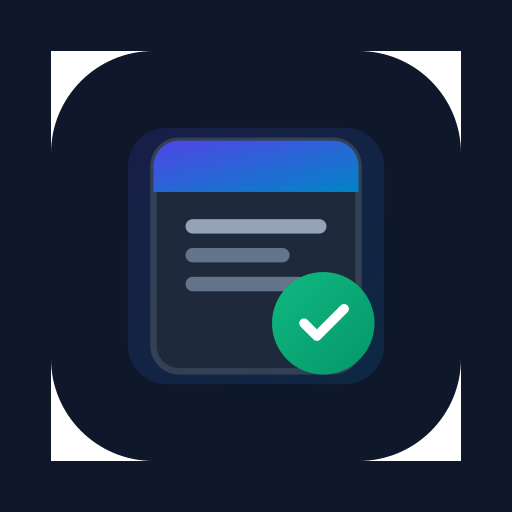
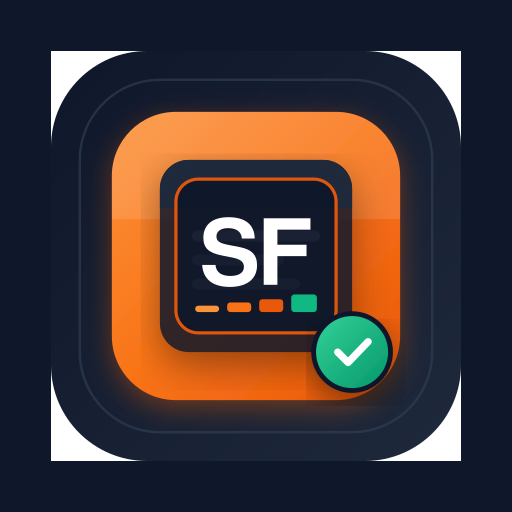
feat: refresh brand identity and optimize data sync
- Redesign app icon with a vibrant brand aesthetic
- Add empty default settings and switch to demo data
- Optimize Firestore cloud data check with parallel lookups

diff --git a/src/services/data/FirestoreSyncService.ts b/src/services/data/FirestoreSyncService.ts
@@ -32,6 +32,8 @@ import {
   writeBatch,
   runTransaction,
   increment,
+  query,
+  limit,
 } from 'firebase/firestore';
 import { db, auth } from '../firebase';
 import {
@@ -226,16 +228,18 @@ export class FirestoreSyncService {
    */
   public async hasCloudData(userId: string): Promise<boolean> {
     try {
-      // 1. Check dedicated onboarding doc
+      // 1. Parallel check of onboarding and company settings (fast single doc lookups)
       const onboardingRef = doc(db, 'users', userId, 'settings', 'onboarding');
-      const onboardingSnap = await getDoc(onboardingRef);
+      const settingsRef = doc(db, 'users', userId, 'settings', 'company');
+
+      const [onboardingSnap, settingsSnap] = await Promise.all([
+        getDoc(onboardingRef),
+        getDoc(settingsRef),
+      ]);
+
       if (onboardingSnap.exists() && onboardingSnap.data()?.hasCompletedOnboarding) {
         return true;
       }
-
-      // 2. Check company settings doc
-      const settingsRef = doc(db, 'users', userId, 'settings', 'company');
-      const settingsSnap = await getDoc(settingsRef);
       if (settingsSnap.exists()) {
         const data = settingsSnap.data();
         if (data?.hasCompletedOnboarding || data?.name || data?.currency) {
@@ -243,32 +247,21 @@ export class FirestoreSyncService {
         }
       }
 
-      // 3. Products
-      const productsRef = collection(db, 'users', userId, 'products');
-      const productsSnap = await getDocs(productsRef);
-      if (!productsSnap.empty) return true;
+      // 2. Parallel quick check for existence in primary collections
+      const collectionsToCheck = ['products', 'clients', 'invoices', 'quotes', 'movements'];
+      const checks = collectionsToCheck.map(async (colName) => {
+        try {
+          const colRef = collection(db, 'users', userId, colName);
+          const q = query(colRef, limit(1));
+          const snap = await getDocs(q);
+          return !snap.empty;
+        } catch {
+          return false;
+        }
+      });
 
-      // 4. Clients
-      const clientsRef = collection(db, 'users', userId, 'clients');
-      const clientsSnap = await getDocs(clientsRef);
-      if (!clientsSnap.empty) return true;
-
-      // 5. Invoices
-      const invoicesRef = collection(db, 'users', userId, 'invoices');
-      const invoicesSnap = await getDocs(invoicesRef);
-      if (!invoicesSnap.empty) return true;
-
-      // 6. Quotes
-      const quotesRef = collection(db, 'users', userId, 'quotes');
-      const quotesSnap = await getDocs(quotesRef);
-      if (!quotesSnap.empty) return true;
-
-      // 7. Movements
-      const movementsRef = collection(db, 'users', userId, 'movements');
-      const movementsSnap = await getDocs(movementsRef);
-      if (!movementsSnap.empty) return true;
-
-      return false;
+      const results = await Promise.all(checks);
+      return results.some(Boolean);
     } catch (err) {
       console.warn('[FirestoreSync] Error checking cloud data:', err);
       return false;
@@ -914,6 +907,8 @@ export class FirestoreSyncService {
   // --- Auto-upload helpers for unmigrated local collections ---
   private async syncLocalClientsIfCloudEmpty(userId: string, clients: Client[]) {
     if (!clients || clients.length === 0) return;
+    // Guard: Never auto-sync demo clients to user cloud storage
+    if (clients.some((c) => c.id === 'cli-1' || c.name === 'Amadou Diallo')) return;
     try {
       let batch = writeBatch(db);
       let count = 0;
@@ -940,6 +935,8 @@ export class FirestoreSyncService {
 
   private async syncLocalProductsIfCloudEmpty(userId: string, products: Product[]) {
     if (!products || products.length === 0) return;
+    // Guard: Never auto-sync demo products to user cloud storage
+    if (products.some((p) => p.id === 'prod-chg-1' || p.name === 'Chargeur Rapide 33W Type-C')) return;
     try {
       let batch = writeBatch(db);
       let count = 0;
@@ -965,6 +962,8 @@ export class FirestoreSyncService {
 
   private async syncLocalInvoicesIfCloudEmpty(userId: string, invoices: Invoice[]) {
     if (!invoices || invoices.length === 0) return;
+    // Guard: Never auto-sync demo invoices to user cloud storage
+    if (invoices.some((i) => i.id === 'inv-1001' || i.number === 'FAC-2026-1001')) return;
     try {
       let batch = writeBatch(db);
       let count = 0;

diff --git a/src/store/AppContext.tsx b/src/store/AppContext.tsx
@@ -235,21 +235,9 @@ export const AppProvider: React.FC<{ children: React.ReactNode }> = ({ children 
       try {
         const loaded = await dataRepository.loadFullState();
         if (loaded) {
-          // If categories still contain old grocery demo data, upgrade to telephony & IT accessories boutique
-          const hasOldGroceryData = loaded.categories?.some((c) =>
-            c.name.toLowerCase().includes('alimentation') || c.name.toLowerCase().includes('épicerie')
-          );
-          if (hasOldGroceryData) {
-            const demo = getDemoState();
-            await dataRepository.saveFullState(demo);
-            setState(demo);
-            return;
-          }
-
           // Strictly ensure light theme is the default experience
           if (!loaded.settings?.theme || loaded.settings.theme === 'dark') {
             loaded.settings = { ...loaded.settings, theme: 'light' };
-            await dataRepository.saveFullState(loaded);
           }
           // If PIN is enabled, lock upon startup
           const shouldLock = Boolean(loaded.settings?.pinEnabled && loaded.settings?.pinCode);
@@ -263,7 +251,7 @@ export const AppProvider: React.FC<{ children: React.ReactNode }> = ({ children 
             markUserOnboardedLocally(currentUserUid);
           }
 
-          setState({
+          const initializedState: AppState = {
             ...loaded,
             restockRequests: Array.isArray(loaded.restockRequests) ? loaded.restockRequests : [],
             returns: Array.isArray(loaded.returns) ? loaded.returns : [],
@@ -273,16 +261,19 @@ export const AppProvider: React.FC<{ children: React.ReactNode }> = ({ children 
               ...loaded.settings,
               hasCompletedOnboarding: hasOnboardingDone,
             },
-          });
+          };
+
+          stateRef.current = initializedState;
+          setState(initializedState);
         } else {
-          // Start with demo state for immediate exploration if first time
-          const demo = getDemoState();
-          await dataRepository.saveFullState(demo);
-          setState(demo);
+          // Pristine initial state — NEVER auto-inject demo data
+          stateRef.current = initialEmptyState;
+          setState(initialEmptyState);
         }
       } catch (e) {
         console.error('Initialization error:', e);
-        setState(getDemoState());
+        stateRef.current = initialEmptyState;
+        setState(initialEmptyState);
       } finally {
         setIsLoading(false);
       }
@@ -1966,12 +1957,12 @@ export const AppProvider: React.FC<{ children: React.ReactNode }> = ({ children 
       dataRepository.setUserScope(userId);
       const cached = await dataRepository.loadFullState();
 
-      // Check LocalStorage and local state first
+      // Check LocalStorage and local state first (instant, 0ms)
       const hasCompletedLocally = isUserOnboarded(userId, cached);
 
-      // Check remote cloud data in Firestore
+      // Only check cloud onboarding if not already completed locally
       let hasCompletedCloud = false;
-      if (userId) {
+      if (userId && !hasCompletedLocally) {
         hasCompletedCloud = await firestoreSyncService.hasCloudData(userId);
       }
 

diff --git a/vite.config.ts b/vite.config.ts
@@ -43,7 +43,7 @@ export default defineConfig(({ command }) => {
         ],
 
         manifest: {
-          id: isBuild ? '/stockfacture-pro/' : '/',
+          id: './',
           name: 'StockFacture Pro',
           short_name: 'StockFacture',
           description:
@@ -55,36 +55,36 @@ export default defineConfig(({ command }) => {
           display: 'standalone',
           orientation: 'portrait',
 
-          start_url: isBuild ? '/stockfacture-pro/' : '/',
-          scope: isBuild ? '/stockfacture-pro/' : '/',
+          start_url: './',
+          scope: './',
 
           icons: [
             {
-              src: isBuild ? '/stockfacture-pro/pwa-192x192.png' : '/pwa-192x192.png',
+              src: 'pwa-192x192.png',
               sizes: '192x192',
               type: 'image/png',
               purpose: 'any',
             },
             {
-              src: isBuild ? '/stockfacture-pro/pwa-512x512.png' : '/pwa-512x512.png',
+              src: 'pwa-512x512.png',
               sizes: '512x512',
               type: 'image/png',
               purpose: 'any',
             },
             {
-              src: isBuild ? '/stockfacture-pro/pwa-512x512-maskable.png' : '/pwa-512x512-maskable.png',
+              src: 'pwa-512x512-maskable.png',
               sizes: '512x512',
               type: 'image/png',
               purpose: 'maskable',
             },
             {
-              src: isBuild ? '/stockfacture-pro/apple-touch-icon.png' : '/apple-touch-icon.png',
+              src: 'apple-touch-icon.png',
               sizes: '180x180',
               type: 'image/png',
               purpose: 'any',
             },
             {
-              src: isBuild ? '/stockfacture-pro/icon.svg' : '/icon.svg',
+              src: 'icon.svg',
               sizes: 'any',
               type: 'image/svg+xml',
               purpose: 'any',

diff --git a/src/data/demoData.ts b/src/data/demoData.ts
@@ -6,6 +6,30 @@
 import { AppState, CompanySettings, Category, Product, Client, Invoice, PaymentRecord, StockMovement, Quote, RestockRequest } from '../types';
 
 export const defaultSettings: CompanySettings = {
+  name: '',
+  address: '',
+  phone: '',
+  email: '',
+  website: '',
+  taxId: '',
+  currency: 'FCFA',
+  currencyPosition: 'after',
+  invoicePrefix: 'FAC-2026-',
+  nextInvoiceNumber: 1001,
+  quotePrefix: 'DEV-2026-',
+  nextQuoteNumber: 1001,
+  vatEnabled: false,
+  vatRate: 18,
+  paymentTerms: 'Règlement à réception.',
+  invoiceFooterNote: 'Merci pour votre confiance !',
+  allowNegativeStock: false,
+  pinEnabled: false,
+  pinCode: '',
+  theme: 'light',
+  hasCompletedOnboarding: false,
+};
+
+export const demoSettings: CompanySettings = {
   name: 'TechMobile & Informatique Pro',
   address: 'Avenue des Télécoms, Rue du Commerce Tech, Abidjan',
   phone: '+225 07 88 99 00 11',
@@ -26,7 +50,7 @@ export const defaultSettings: CompanySettings = {
   pinEnabled: false,
   pinCode: '',
   theme: 'light',
-  hasCompletedOnboarding: typeof window !== 'undefined' && localStorage.getItem('stockfacture_onboarding_completed') === 'true',
+  hasCompletedOnboarding: true,
 };
 
 export const initialEmptyState: AppState = {
@@ -656,7 +680,7 @@ export function getDemoState(): AppState {
   ];
 
   return {
-    settings: defaultSettings,
+    settings: demoSettings,
     categories,
     products,
     movements,

diff --git a/index.html b/index.html
@@ -14,10 +14,10 @@
     <meta name="apple-mobile-web-app-capable" content="yes" />
     <meta name="apple-mobile-web-app-status-bar-style" content="default" />
     <meta name="apple-mobile-web-app-title" content="StockFacture" />
-    <link rel="icon" type="image/svg+xml" href="/icon.svg" />
-    <link rel="icon" type="image/png" sizes="32x32" href="/favicon-32x32.png" />
-    <link rel="icon" type="image/png" sizes="16x16" href="/favicon-16x16.png" />
-    <link rel="apple-touch-icon" sizes="180x180" href="/apple-touch-icon.png" />
+    <link rel="icon" type="image/svg+xml" href="./icon.svg?v=1.0.2" />
+    <link rel="icon" type="image/png" sizes="32x32" href="./favicon-32x32.png?v=1.0.2" />
+    <link rel="icon" type="image/png" sizes="16x16" href="./favicon-16x16.png?v=1.0.2" />
+    <link rel="apple-touch-icon" sizes="180x180" href="./apple-touch-icon.png?v=1.0.2" />
     <link rel="preconnect" href="https://fonts.googleapis.com" />
     <link rel="preconnect" href="https://fonts.gstatic.com" crossorigin />
     <link href="https://fonts.googleapis.com/css2?family=Plus+Jakarta+Sans:wght@400;500;600;700;800&family=JetBrains+Mono:wght@400;500;600&display=swap" rel="stylesheet" />

diff --git a/src/store/AuthContext.tsx b/src/store/AuthContext.tsx
@@ -61,10 +61,12 @@ export const AuthProvider: React.FC<{ children: React.ReactNode }> = ({ children
         if (reloadStateForUser) {
           await reloadStateForUser(currentUser.uid);
         }
+        setIsLoadingAuth(false);
+
         // Start real-time Firestore listeners for this user
         firestoreSyncService.startSync(currentUser.uid);
 
-        // Check for first-login migration safety
+        // Check for first-login migration safety non-blockingly
         const hasCloud = await firestoreSyncService.hasCloudData(currentUser.uid);
         const currentState = stateRef.current;
         const hasLocal =

diff --git a/src/version.ts b/src/version.ts
@@ -2,6 +2,6 @@
  * StockFacture Pro - Version Release Information
  * Incrémentez ce numéro de version lors de chaque nouvelle publication.
  */
-export const APP_VERSION = '1.0.1';
-export const APP_RELEASE_NAME = 'StockFacture Pro 1.0.1';
-export const APP_BUILD_DATE = '2026-09-28';
+export const APP_VERSION = '1.0.2';
+export const APP_RELEASE_NAME = 'StockFacture Pro 1.0.2';
+export const APP_BUILD_DATE = '2026-10-02';
